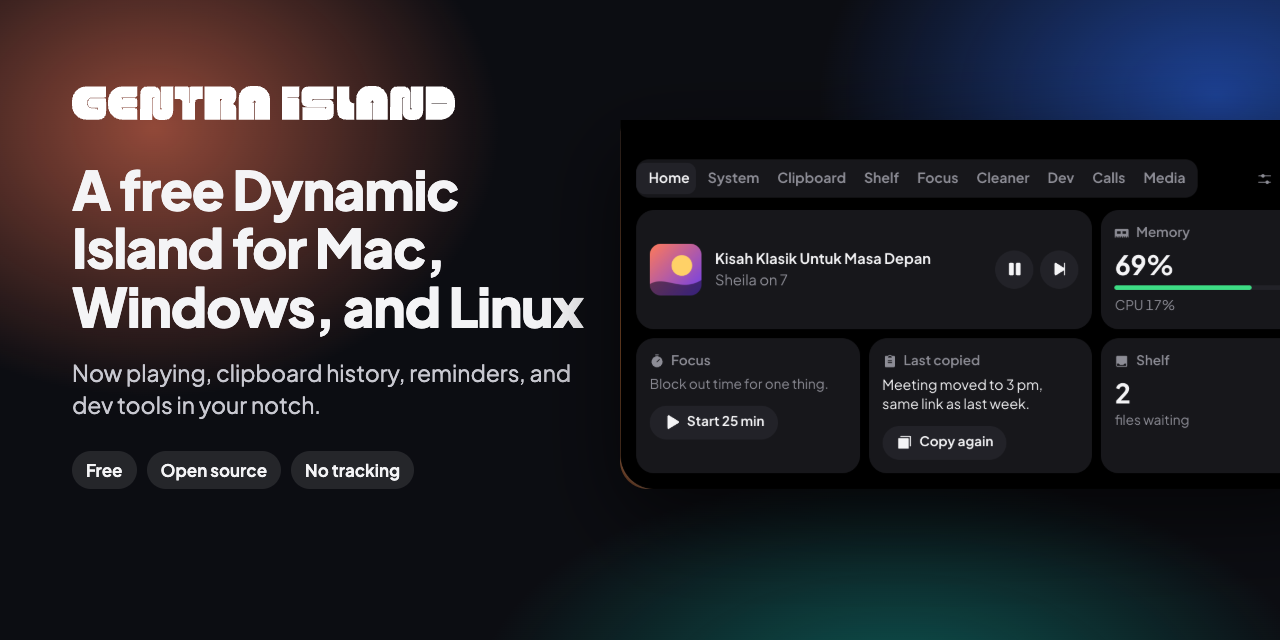
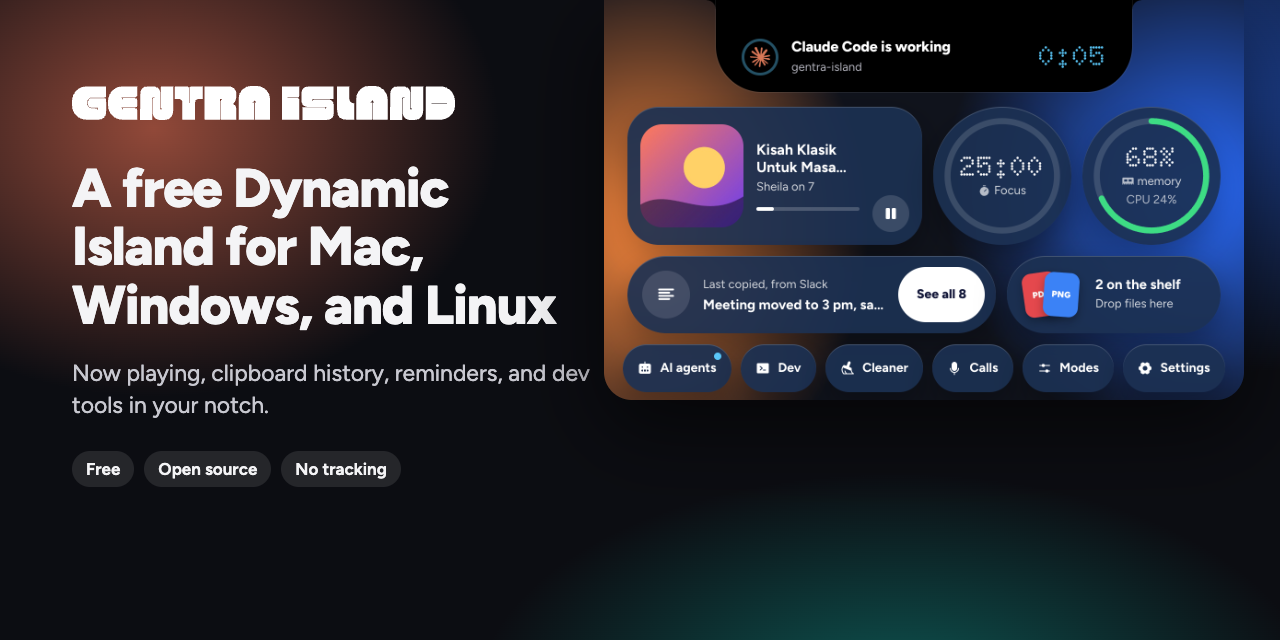
docs: social preview in the Droplets look, and fresh image URLs for 1.0
Browsers that cached the old screenshots under the same names now fetch the new ones.

diff --git a/docs/index.html b/docs/index.html
@@ -18,13 +18,13 @@
   <meta property="og:title" content="Gentra Island: a free Dynamic Island for Mac, Windows, and Linux">
   <meta property="og:description" content="100% free and open source. Your notch tells you when Claude Code needs you, reminds you to drink water, and shows what's playing. No account, no tracking.">
   <meta property="og:url" content="https://adamfatur.github.io/gentra-island/">
-  <meta property="og:image" content="https://adamfatur.github.io/gentra-island/img/social-preview.png">
+  <meta property="og:image" content="https://adamfatur.github.io/gentra-island/img/social-preview.png?v=1.0.0">
   <meta property="og:image:width" content="1280">
   <meta property="og:image:height" content="640">
   <meta name="twitter:card" content="summary_large_image">
   <meta name="twitter:title" content="Gentra Island: a free Dynamic Island for Mac, Windows, and Linux">
   <meta name="twitter:description" content="100% free and open source. Your notch tells you when Claude Code needs you, reminds you to drink water, and shows what's playing.">
-  <meta name="twitter:image" content="https://adamfatur.github.io/gentra-island/img/social-preview.png">
+  <meta name="twitter:image" content="https://adamfatur.github.io/gentra-island/img/social-preview.png?v=1.0.0">
 
   <script type="application/ld+json">
   {
@@ -37,8 +37,8 @@
     "featureList": ["Droplets: a core that says what matters, and droplets that grow into full views, in Liquid Glass on macOS 26", "Claude Code and Codex status and token usage", "Approve or deny Claude Code permission requests from the notch", "Copy the text in a screenshot, read offline", "Download progress with Open and Show in Finder", "Break, water, meal, and bedtime reminders", "Now playing controls", "Clipboard history that cleans up after itself", "Reminders from copied text", "File shelf", "Focus timer", "System monitor", "Local server watcher", "Call and microphone status", "Steps aside over full-screen apps on macOS"],
     "url": "https://adamfatur.github.io/gentra-island/",
     "downloadUrl": "https://github.com/Adamfatur/gentra-island/releases/latest",
-    "image": "https://adamfatur.github.io/gentra-island/img/social-preview.png",
-    "screenshot": "https://adamfatur.github.io/gentra-island/screenshots/home.png",
+    "image": "https://adamfatur.github.io/gentra-island/img/social-preview.png?v=1.0.0",
+    "screenshot": "https://adamfatur.github.io/gentra-island/screenshots/home.png?v=1.0.0",
     "license": "https://www.gnu.org/licenses/gpl-3.0.html",
     "isAccessibleForFree": true,
     "offers": { "@type": "Offer", "price": "0", "priceCurrency": "USD" },
@@ -337,9 +337,9 @@
   </section>
 
   <div class="demo">
-    <video autoplay muted loop playsinline preload="metadata" poster="screenshots/home.png" width="760" height="600" aria-label="Gentra Island growing from the notch: the core with Claude Code working, Home with its droplets, then Media, Clipboard, Dev, and AI agents, then Claude Code asking for permission and a reminder to drink water">
-      <source src="screenshots/demo.mp4" type="video/mp4">
-      <img src="screenshots/demo.gif" alt="Gentra Island growing from the notch and opening its droplets one by one">
+    <video autoplay muted loop playsinline preload="metadata" poster="screenshots/home.png?v=1.0.0" width="760" height="600" aria-label="Gentra Island growing from the notch: the core with Claude Code working, Home with its droplets, then Media, Clipboard, Dev, and AI agents, then Claude Code asking for permission and a reminder to drink water">
+      <source src="screenshots/demo.mp4?v=1.0.0" type="video/mp4">
+      <img src="screenshots/demo.gif?v=1.0.0" alt="Gentra Island growing from the notch and opening its droplets one by one">
     </video>
     <p>The real app, recorded from its preview with sample data.</p>
   </div>
@@ -381,7 +381,7 @@
         <p class="intro">The island has a new look. A black core grows out of the notch and tells you the one thing that matters right now: Claude Code at work, a call, a focus session, or a download. Under it hang droplets, one for each feature. Tap one and it grows into a full view; tap Done and it goes back.</p>
 
         <div class="row">
-          <figure><img src="screenshots/home.png" width="1520" height="932" loading="lazy" alt="The open island: the core says Claude Code is working, with droplets for music, focus, memory, the clipboard, the shelf, and chips for AI agents, Dev, Cleaner, Calls, Modes, and Settings"></figure>
+          <figure><img src="screenshots/home.png?v=1.0.0" width="1520" height="932" loading="lazy" alt="The open island: the core says Claude Code is working, with droplets for music, focus, memory, the clipboard, the shelf, and chips for AI agents, Dev, Cleaner, Calls, Modes, and Settings"></figure>
           <div>
             <h3>Real glass on macOS 26</h3>
             <p>On macOS 26 and newer, the droplets are Liquid Glass: your wallpaper shows through, blurred and bent the way glass bends it. Older Macs get frosted droplets, and Windows and Linux get solid ones, with the same shapes and the same motion.</p>
@@ -392,12 +392,12 @@
 
         <div class="pair">
           <div>
-            <figure><img src="screenshots/compact.png" width="1520" height="148" loading="lazy" alt="Two small droplets either side of the notch: album artwork and a level meter"></figure>
+            <figure><img src="screenshots/compact.png?v=1.0.0" width="1520" height="148" loading="lazy" alt="Two small droplets either side of the notch: album artwork and a level meter"></figure>
             <h3>Two droplets while music plays</h3>
             <p>The cover and a level meter split off either side of the notch, so you see what's playing without opening anything. A call takes their place when it matters more.</p>
           </div>
           <div>
-            <figure><img src="screenshots/home-light.png" width="1520" height="932" loading="lazy" alt="The open island in the light theme"></figure>
+            <figure><img src="screenshots/home-light.png?v=1.0.0" width="1520" height="932" loading="lazy" alt="The open island in the light theme"></figure>
             <h3>Light or dark</h3>
             <p>Match the system, or pick one. Colors that are too pale or too dark get adjusted so text stays readable.</p>
           </div>
@@ -411,7 +411,7 @@
         <p class="intro">On a MacBook it sits close around the notch, so your menus stay where they are. Hover, click, or press ⌥⌘G (Ctrl+Alt+G on Windows and Linux) to open it. It speaks up by itself only when something is worth seeing.</p>
 
         <div class="row">
-          <figure><img src="screenshots/ai.png" width="1520" height="1392" loading="lazy" alt="The AI agents view: Claude Code waiting for permission, Codex working, and the tokens Claude Code used in its latest session, today, and the last 7 days"></figure>
+          <figure><img src="screenshots/ai.png?v=1.0.0" width="1520" height="1392" loading="lazy" alt="The AI agents view: Claude Code waiting for permission, Codex working, and the tokens Claude Code used in its latest session, today, and the last 7 days"></figure>
           <div>
             <h3>Know when Claude Code needs you</h3>
             <p>Leave Claude Code or Codex working and get on with something else. When it asks for permission, the notch shows its question. When a longer task is done, it tells you how long it took.</p>
@@ -422,7 +422,7 @@
         </div>
 
         <div class="row flip">
-          <figure><img src="screenshots/care.png" width="1520" height="388" loading="lazy" alt="A break reminder after an hour of work: Okay, a short break, Later, and Not today"></figure>
+          <figure><img src="screenshots/care.png?v=1.0.0" width="1520" height="388" loading="lazy" alt="A break reminder after an hour of work: Okay, a short break, Later, and Not today"></figure>
           <div>
             <h3>A friend who reminds you to drink water</h3>
             <p>Work long enough and you forget the small things. After about 50 minutes at the keyboard, the island suggests you stand up. It reminds you to drink water, to eat lunch and dinner, and to stop when it's past eleven.</p>
@@ -431,7 +431,7 @@
         </div>
 
         <div class="row spotlight">
-          <figure><img src="screenshots/screenshot.png" width="1520" height="354" loading="lazy" alt="A new screenshot on the island with Copy text, Copy image, and Shelf"></figure>
+          <figure><img src="screenshots/screenshot.png?v=1.0.0" width="1520" height="354" loading="lazy" alt="A new screenshot on the island with Copy text, Copy image, and Shelf"></figure>
           <div>
             <h3>Copy the text out of any screenshot</h3>
             <p>Take a screenshot as usual. It shows on the island, and Copy text puts the words in it on your clipboard. Read on your computer, with no upload.</p>
@@ -443,19 +443,19 @@
 
         <div class="pair">
           <div>
-            <figure><img src="screenshots/download.png" width="1520" height="354" loading="lazy" alt="A finished download on the island with Open, Show in Finder, and Shelf"></figure>
+            <figure><img src="screenshots/download.png?v=1.0.0" width="1520" height="354" loading="lazy" alt="A finished download on the island with Open, Show in Finder, and Shelf"></figure>
             <h3>Downloads, right in the notch</h3>
             <p>See a file arrive while your browser downloads it, then open it or find it in one click when it's done.</p>
           </div>
           <div>
-            <figure><img src="screenshots/eyes.png" width="1520" height="144" loading="lazy" alt="Two small eyes, one either side of the notch"></figure>
+            <figure><img src="screenshots/eyes.png?v=1.0.0" width="1520" height="144" loading="lazy" alt="Two small eyes, one either side of the notch"></figure>
             <h3>A little character in your notch</h3>
             <p>Two glowing pixel eyes sit either side of the camera, in your accent color, and follow your pointer. They smile when a task is done, look up when something needs you, and nap while you're away. They sit in the menu bar, so nothing below is covered. Off, Moments, or Always, in Settings.</p>
           </div>
         </div>
 
         <div class="row">
-          <figure><img src="screenshots/media.png" width="1520" height="914" loading="lazy" alt="The Media view: album artwork, the song, a timeline, and play, pause, and skip"></figure>
+          <figure><img src="screenshots/media.png?v=1.0.0" width="1520" height="914" loading="lazy" alt="The Media view: album artwork, the song, a timeline, and play, pause, and skip"></figure>
           <div>
             <h3>Whatever's playing, one hover away</h3>
             <p>Spotify, Apple Music, YouTube, and other players. See the song or video, play and pause, skip, or drag the timeline. The panel takes its color from the artwork.</p>
@@ -464,7 +464,7 @@
         </div>
 
         <div class="row flip">
-          <figure><img src="screenshots/reminder-offer.png" width="1520" height="354" loading="lazy" alt="The island offering: Remind you Friday at 2:00 PM? with Remind me and No thanks"></figure>
+          <figure><img src="screenshots/reminder-offer.png?v=1.0.0" width="1520" height="354" loading="lazy" alt="The island offering: Remind you Friday at 2:00 PM? with Remind me and No thanks"></figure>
           <div>
             <h3>Copy a time, get a reminder</h3>
             <p>Copy "meeting moved to 3 pm" or "rapat Jumat jam 14.00" and the island offers to remind you. One click. Any copied text can get a reminder: in an hour, tonight, tomorrow morning, or any time.</p>
@@ -473,7 +473,7 @@
         </div>
 
         <div class="row">
-          <figure><img src="screenshots/clipboard.png" width="1520" height="1174" loading="lazy" alt="Clipboard history with search, filters, copied text, and a screenshot with Copy text"></figure>
+          <figure><img src="screenshots/clipboard.png?v=1.0.0" width="1520" height="1174" loading="lazy" alt="Clipboard history with search, filters, copied text, and a screenshot with Copy text"></figure>
           <div>
             <h3>A clipboard that remembers, and understands</h3>
             <p>Text, links, code, colors, and screenshots, searchable and pinnable. Press ⌥⌘V (Ctrl+Alt+V) to bring it up. It decodes JWTs, timestamps, and JSON, and can copy a link without its trackers.</p>
@@ -484,12 +484,12 @@
 
         <div class="pair">
           <div>
-            <figure><img src="screenshots/dev.png" width="1520" height="1138" loading="lazy" alt="The Dev tab listing local servers by port, and finished terminal commands"></figure>
+            <figure><img src="screenshots/dev.png?v=1.0.0" width="1520" height="1138" loading="lazy" alt="The Dev tab listing local servers by port, and finished terminal commands"></figure>
             <h3>For developers</h3>
             <p>See every local server by port and folder, open it, or stop it. Get told when a build or test of 10 seconds or more finishes, with how long it took.</p>
           </div>
           <div>
-            <figure><img src="screenshots/calls.png" width="1520" height="970" loading="lazy" alt="The Calls view showing which app is using the microphone, with the call time and Mute mic"></figure>
+            <figure><img src="screenshots/calls.png?v=1.0.0" width="1520" height="970" loading="lazy" alt="The Calls view showing which app is using the microphone, with the call time and Mute mic"></figure>
             <h3>For calls</h3>
             <p>See which app has your mic and how long the call has run. Mute the mic for every app at once on a Mac, and check your camera before you join.</p>
           </div>

diff --git a/scripts/social-preview.html b/scripts/social-preview.html
@@ -1,9 +1,9 @@
 <!doctype html>
 <html><head><meta charset="utf-8">
 <style>
-  @font-face { font-family: "Jakarta"; src: url("../node_modules/@fontsource-variable/plus-jakarta-sans/files/plus-jakarta-sans-latin-wght-normal.woff2") format("woff2"); font-weight: 200 800; }
+  @font-face { font-family: "Figtree"; src: url("../node_modules/@fontsource-variable/figtree/files/figtree-latin-wght-normal.woff2") format("woff2"); font-weight: 300 900; }
   html, body { margin: 0; }
-  body { width: 1280px; height: 640px; overflow: hidden; font-family: "Jakarta", system-ui, sans-serif; color: #f4f4f6;
+  body { width: 1280px; height: 640px; overflow: hidden; font-family: "Figtree", system-ui, sans-serif; color: #f4f4f6;
     background: radial-gradient(45% 70% at 12% 20%, rgba(255,122,89,.55), transparent 60%),
                 radial-gradient(50% 70% at 95% 15%, rgba(42,108,255,.55), transparent 62%),
                 radial-gradient(55% 60% at 70% 110%, rgba(15,181,166,.45), transparent 60%), #0c0d12; }
@@ -13,8 +13,9 @@
   p { font-size: 23px; line-height: 1.4; color: #c8c8d0; margin: 0 0 30px; }
   .chips { display: flex; gap: 10px; flex-wrap: wrap; }
   .chips span { font-size: 17px; font-weight: 650; padding: 8px 14px; border-radius: 99px; background: rgba(255,255,255,.1); }
-  .shot-wrap { position: absolute; right: -60px; top: 120px; width: 720px; aspect-ratio: 1280 / 656; overflow: hidden; border-radius: 0 0 28px 28px; box-shadow: 0 30px 80px rgba(0,0,0,.6); }
-  .shot { position: absolute; width: 118.75%; left: -9.375%; top: 0; }
+  /* The Droplets home, cropped to the island and its droplets. */
+  .shot-wrap { position: absolute; right: 36px; top: 0; width: 640px; height: 400px; overflow: hidden; border-radius: 0 0 28px 28px; box-shadow: 0 30px 80px rgba(0,0,0,.6); }
+  .shot { position: absolute; width: 700px; left: -30px; top: 0; }
 </style></head>
 <body>
   <div class="left">
